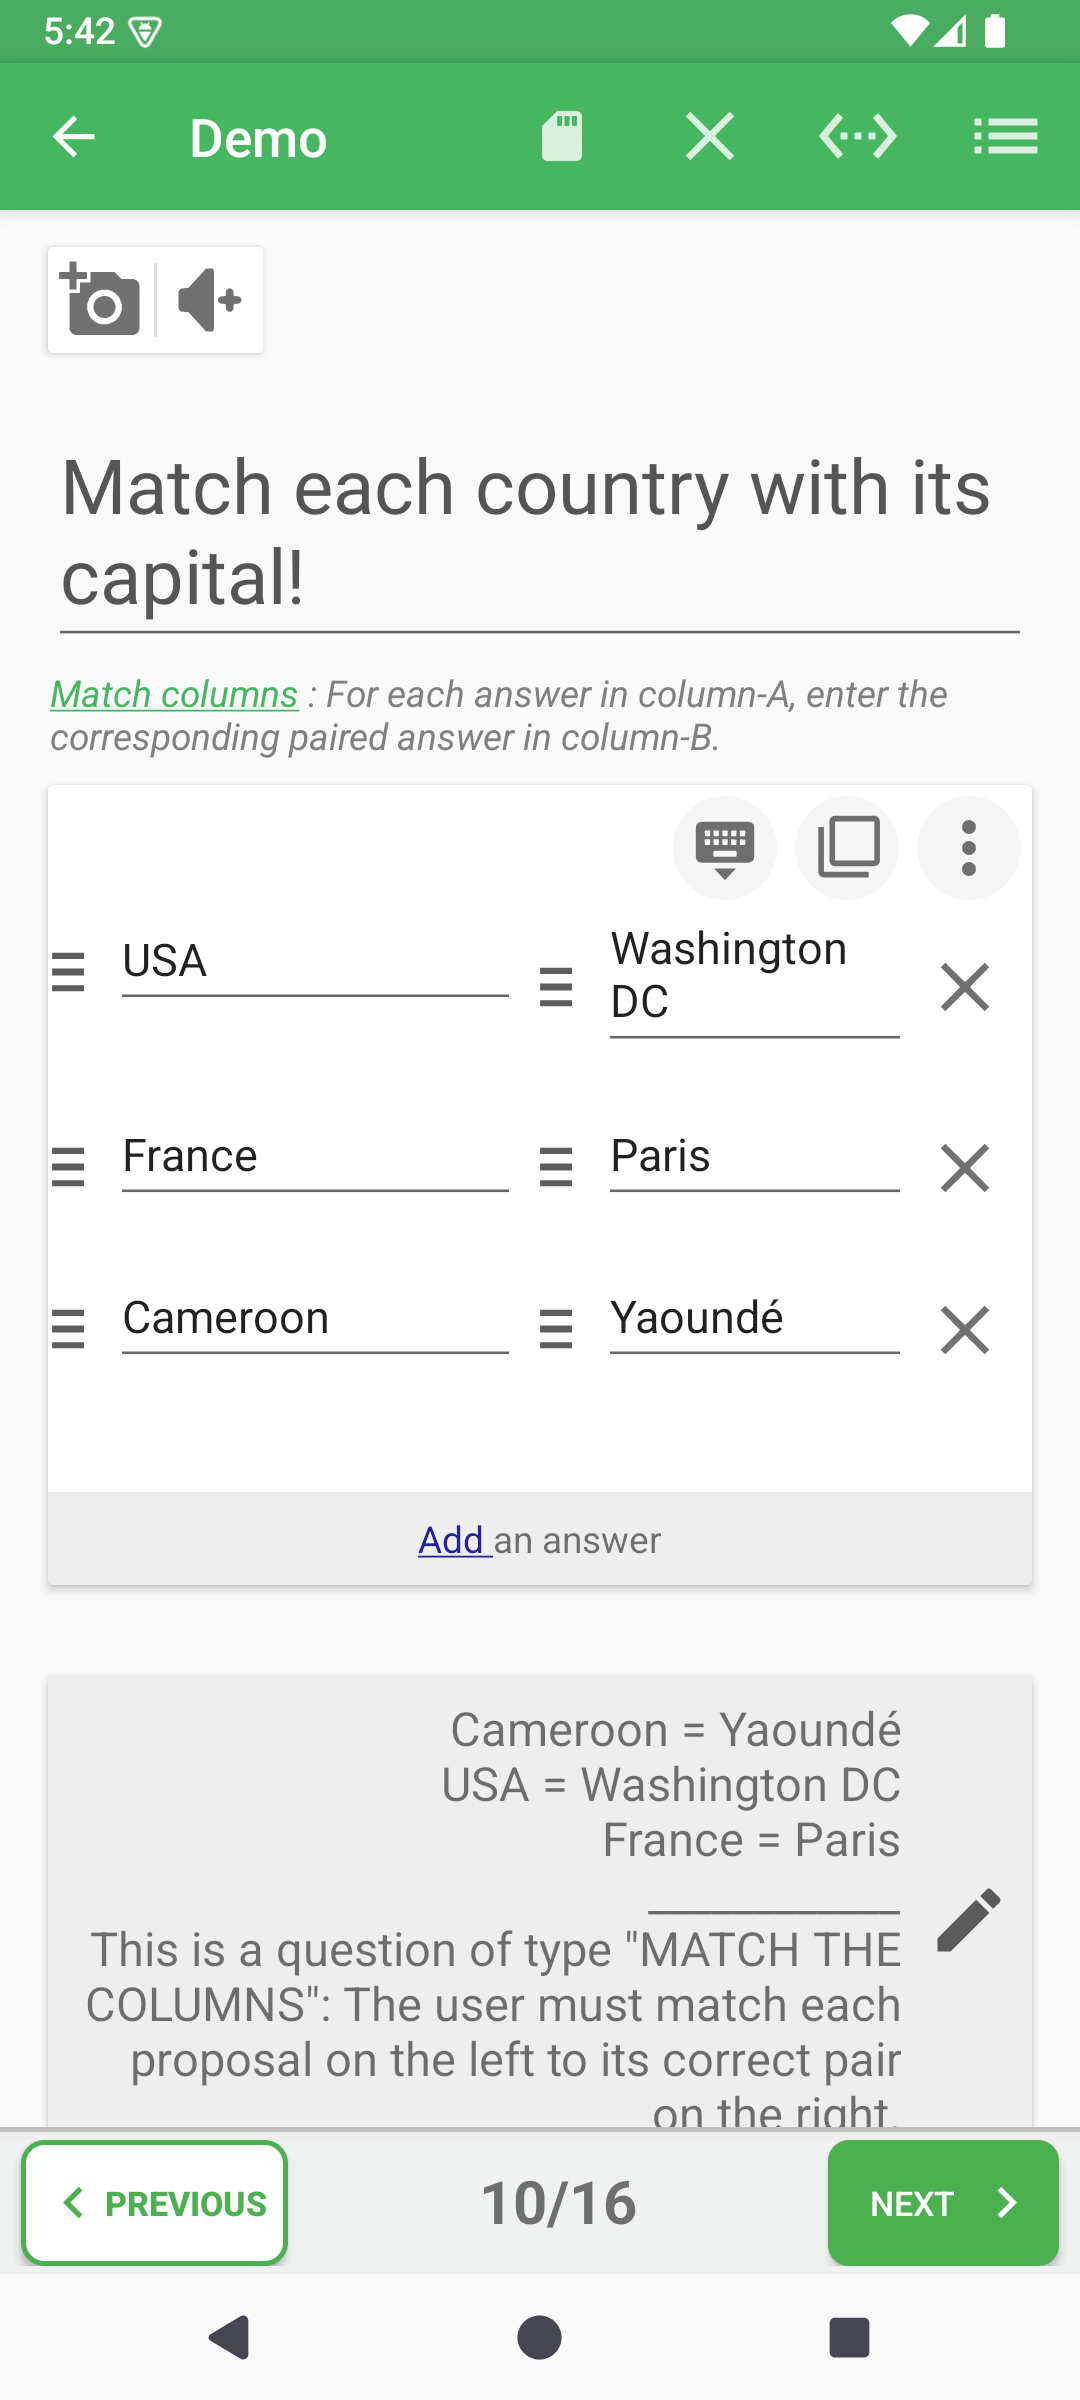
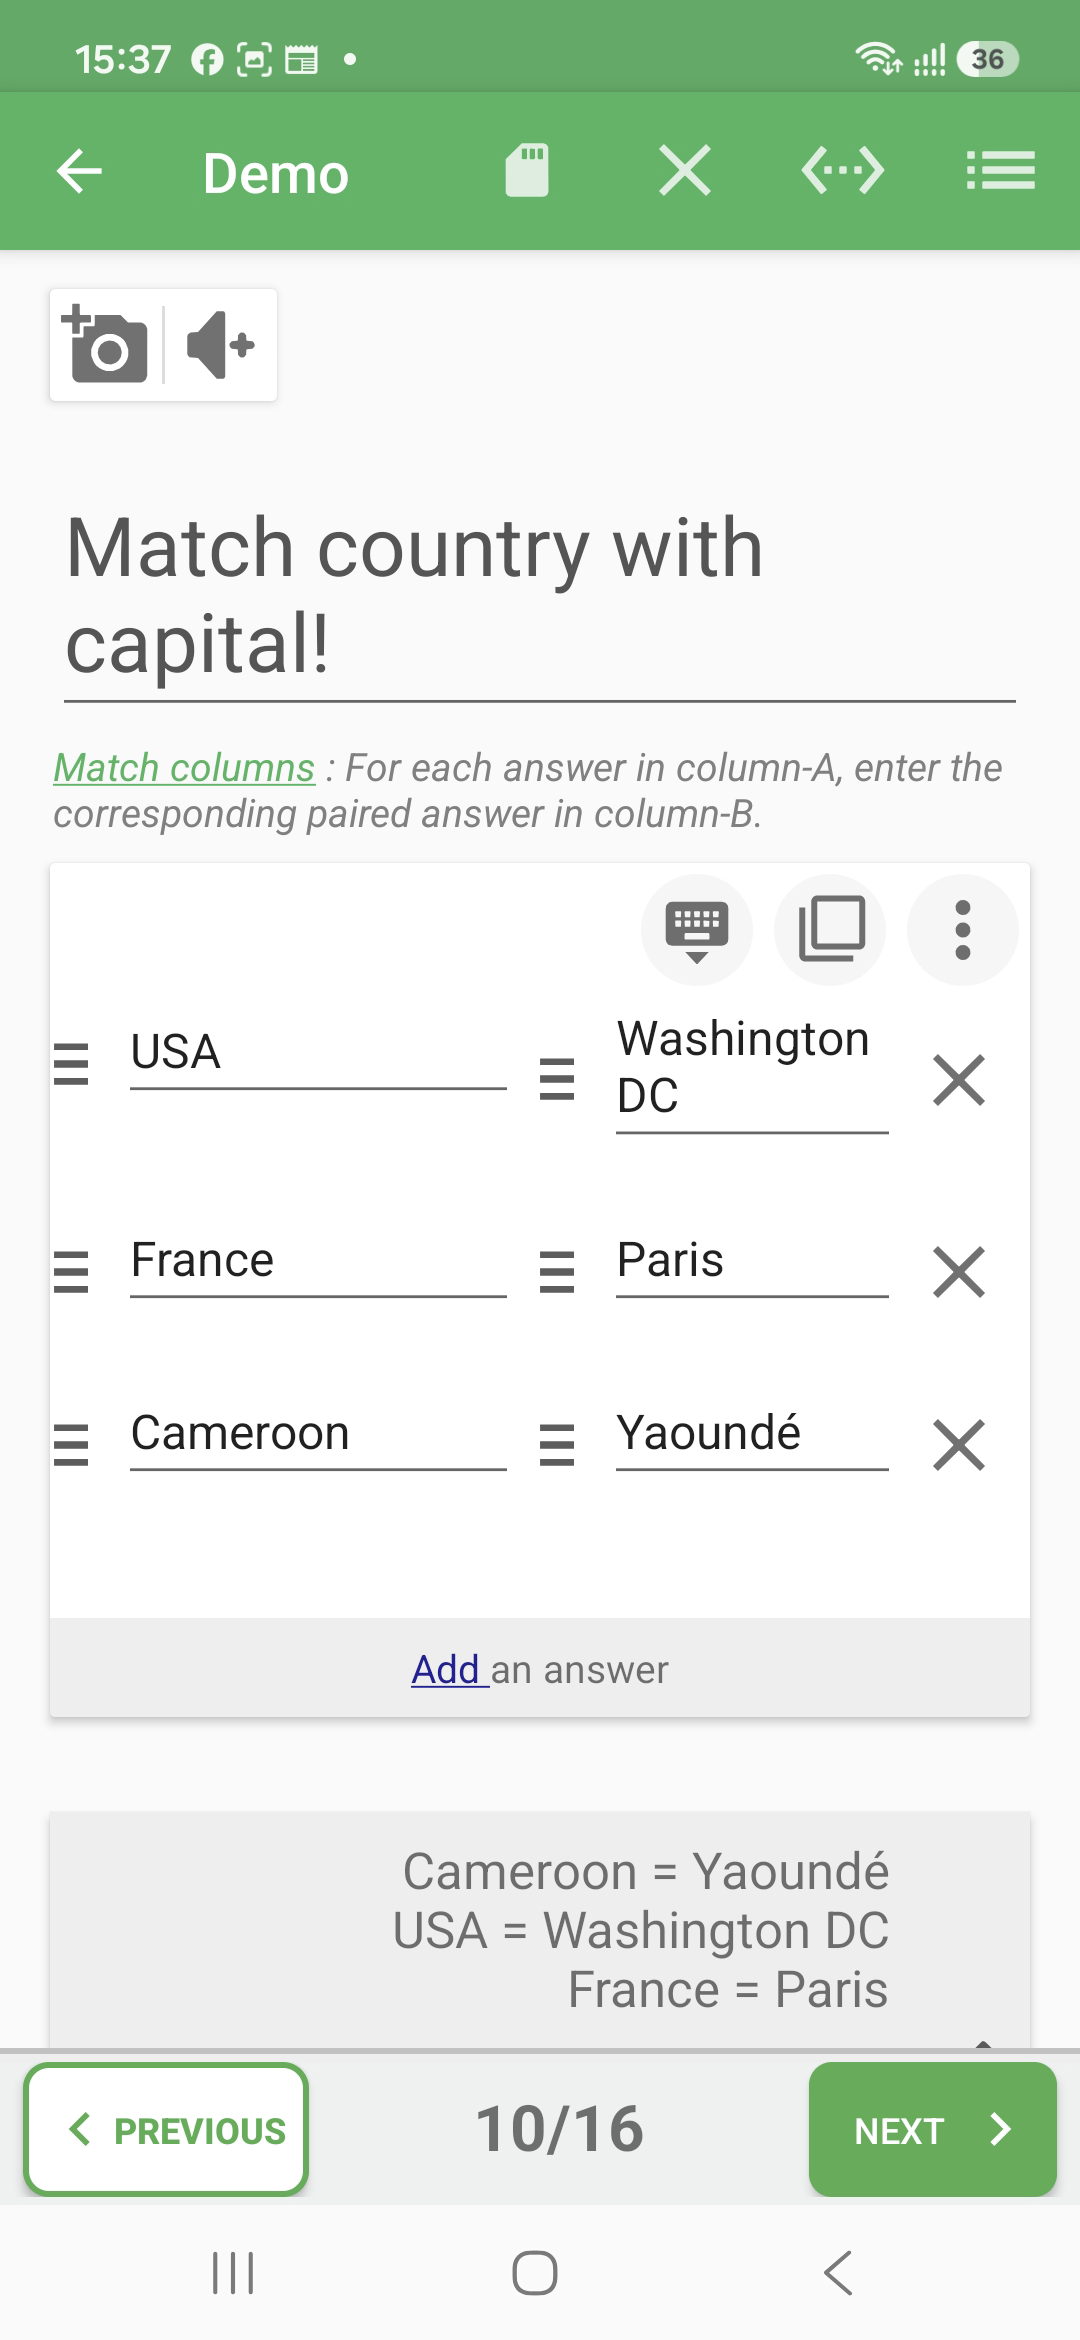
actualise les captures des types de questions

diff --git a/qcmmaker/user-guide/features/editor/question-types/jumbled-words-fr.md b/qcmmaker/user-guide/features/editor/question-types/jumbled-words-fr.md
@@ -2,7 +2,15 @@
 
 Utilisez ce type lorsque le participant doit reconstruire une phrase de référence à partir de mots ou de fragments significatifs.
 
+## Comment y accéder
+
+Ouvrez ou créez un quiz, choisissez **Modifier les questions**, touchez l'icône du type actuel au-dessus de la carte des réponses, puis sélectionnez **Mots mélangés / Jumbled words**.
+
+![Jumbled words entouré dans le sélecteur de type anglais](assets-en/jumbled-words-type-selector.jpg)
+
 ## Dans l'éditeur
+
+![Phrase de référence complète dans l'éditeur Jumbled words en anglais](assets-en/jumbled-words.jpg)
 
 Saisissez les mots ou fragments dans le bon ordre de référence. Pendant le jeu, QcmMaker les présente pour réordonnancement.
 

diff --git a/qcmmaker/user-guide/features/editor/question-types/match-columns-fr.md b/qcmmaker/user-guide/features/editor/question-types/match-columns-fr.md
@@ -23,6 +23,10 @@ Contrairement aux autres types, l'association n'est pas une liste de réponses p
 
 Les colonnes ne sont pas deux listes indépendantes. La ligne enregistrée reste la référence de correction, même si une ou deux colonnes sont ensuite mélangées pendant le jeu.
 
+Une image ou un son peut aussi être associé à chaque cellule. Il est ainsi possible de relier un son, une image, un mot ou toute combinaison prise en charge, tout en conservant chaque ligne comme une paire.
+
+![Exemple d'association de sons et d'images dans l'éditeur en anglais](assets-en/match-columns-with-media.jpg)
+
 ## Options de la question
 
 ![Options de mélange des colonnes](../assets/options-sheet-match-column.png)

diff --git a/qcmmaker/user-guide/features/editor/question-types/match-columns.md b/qcmmaker/user-guide/features/editor/question-types/match-columns.md
@@ -23,6 +23,10 @@ Unlike the other question types, Match columns is not displayed as one full-widt
 
 Do not think of the columns as two unrelated lists. The authored row is the correction reference even if the player later shuffles one or both columns.
 
+Pictures and audio can also be attached to individual cells. This makes it possible to match a sound, picture, word, or any supported combination while keeping each row as one pair.
+
+![Match columns question combining audio and pictures](assets-en/match-columns-with-media.jpg)
+
 ## Question options
 
 ![Match-column randomization options](../assets/options-sheet-match-column.png)

diff --git a/qcmmaker/user-guide/features/editor/question-types/jumbled-words.md b/qcmmaker/user-guide/features/editor/question-types/jumbled-words.md
@@ -2,7 +2,15 @@
 
 Use Jumbled words when the learner must reconstruct one reference sentence from words or meaningful fragments.
 
+## How to access it
+
+Open or create a quiz, choose **Edit questions**, tap the current question-type icon above the answer card, then select **Jumbled words**.
+
+![Jumbled words in the question-type selector](assets-en/jumbled-words-type-selector.jpg)
+
 ## In the editor
+
+![Complete reference sentence in the Jumbled words editor](assets-en/jumbled-words.jpg)
 
 Enter the words or fragments in the correct reference order. During play, QcmMaker presents them for rearrangement.
 

diff --git a/qcmmaker/user-guide/features/editor/question-types/enumeration.md b/qcmmaker/user-guide/features/editor/question-types/enumeration.md
@@ -4,6 +4,8 @@ Use Enumeration when the learner must provide several separate items rather than
 
 ## In the editor
 
+![Enumeration question with three expected items in the English editor](assets-en/enumeration.jpg)
+
 Each full-width row is one expected item. Enter the items independently so QcmMaker can evaluate them separately according to the chosen enumeration variant.
 
 The question-level sheet shares the text-answer family: case sensitivity and input assistance are available. Each row can use equality, contains, or pattern evaluation. Proposition pictures and audio are not offered.

diff --git a/qcmmaker/user-guide/features/editor/question-types/enumeration-fr.md b/qcmmaker/user-guide/features/editor/question-types/enumeration-fr.md
@@ -4,6 +4,8 @@ Utilisez l'énumération lorsque le participant doit fournir plusieurs élément
 
 ## Dans l'éditeur
 
+![Exemple d'une énumération de trois éléments dans l'éditeur en anglais](assets-en/enumeration.jpg)
+
 Chaque ligne pleine largeur est un élément attendu. Saisissez-les séparément afin que QcmMaker puisse les évaluer selon la variante d'énumération choisie.
 
 Le panneau général partage la famille des réponses textuelles : casse et aide à la saisie. Chaque ligne peut employer égalité, contenu ou motif. Les médias de proposition ne sont pas proposés.

diff --git a/qcmmaker/user-guide/features/editor/question-types/put-in-order-fr.md b/qcmmaker/user-guide/features/editor/question-types/put-in-order-fr.md
@@ -4,6 +4,8 @@ Utilisez ce type pour restaurer une séquence : étapes d'une procédure, évén
 
 ## Dans l'éditeur
 
+![Exemple de mise en ordre utilisant des images dans l'éditeur en anglais](assets-en/put-in-order-with-media.jpg)
+
 Chaque ligne pleine largeur est un élément. Saisissez-les dans le bon ordre de référence et utilisez les poignées pour le corriger avant l'enregistrement.
 
 Le panneau général indique explicitement qu'aucune option supplémentaire n'est disponible. Les options de ligne peuvent ajouter une image ou un son compatible à un élément.

diff --git a/qcmmaker/user-guide/features/editor/question-types/fill-in-blanks.md b/qcmmaker/user-guide/features/editor/question-types/fill-in-blanks.md
@@ -4,6 +4,8 @@ Use Fill in the blanks when the learner must complete missing parts of a sentenc
 
 ## In the editor
 
+![Fill-in-the-blanks question with two ordered answers in the English editor](assets-en/fill-in-the-blanks.jpg)
+
 Each answer entry represents the expected value of a blank. Keep the surrounding question text clear enough to show where every value belongs.
 
 The question-level sheet exposes case sensitivity. A row can also define its text evaluation and an optional clue. Picture and audio actions are available when a blank needs its own supporting media.

diff --git a/qcmmaker/user-guide/features/editor/question-types/fill-in-blanks-fr.md b/qcmmaker/user-guide/features/editor/question-types/fill-in-blanks-fr.md
@@ -4,6 +4,8 @@ Utilisez ce type lorsque le participant doit compléter les parties manquantes d
 
 ## Dans l'éditeur
 
+![Exemple de texte à deux trous dans l'éditeur en anglais](assets-en/fill-in-the-blanks.jpg)
+
 Chaque réponse représente la valeur attendue d'un trou. Le texte environnant doit permettre de comprendre où placer chaque valeur.
 
 Le panneau général expose la sensibilité à la casse. Une ligne peut aussi définir son mode d'évaluation et un indice. Une image ou un son peut être ajouté lorsqu'un trou nécessite son propre support.

diff --git a/qcmmaker/user-guide/features/editor/question-types/put-in-order.md b/qcmmaker/user-guide/features/editor/question-types/put-in-order.md
@@ -4,6 +4,8 @@ Use Put in order when the learner must restore a sequence: procedure steps, chro
 
 ## In the editor
 
+![Put-in-order question using pictures in the English editor](assets-en/put-in-order-with-media.jpg)
+
 Each full-width row is one item. Enter the items in the correct reference order. Use the left handles to adjust that order before saving.
 
 The question-level three-dot sheet explicitly reports that this type has no additional options. Row options can attach supported picture or audio media to an item.

diff --git a/qcmmaker/user-guide/features/editor/question-types/typed-answer-fr.md b/qcmmaker/user-guide/features/editor/question-types/typed-answer-fr.md
@@ -4,6 +4,8 @@ Utilisez ce type lorsque se rappeler la réponse compte davantage que la reconna
 
 ## Dans l'éditeur
 
+![Exemple de réponse à saisir avec deux réponses acceptées dans l'éditeur en anglais](assets-en/type-answer.jpg)
+
 Chaque ligne pleine largeur est un texte accepté. Ajoutez des variantes d'orthographe ou de formulation uniquement si chacune doit être considérée comme correcte.
 
 Le menu d'une ligne définit la comparaison :

diff --git a/qcmmaker/user-guide/features/editor/question-types/typed-answer.md b/qcmmaker/user-guide/features/editor/question-types/typed-answer.md
@@ -4,6 +4,8 @@ Use Type answer when remembering the answer matters more than recognizing it in 
 
 ## In the editor
 
+![Typed-answer question with two accepted answers in the English editor](assets-en/type-answer.jpg)
+
 Each full-width row is an accepted text answer. Add spelling or wording variants only when each variant should receive credit.
 
 The option menu for a row defines how QcmMaker evaluates typed text:
